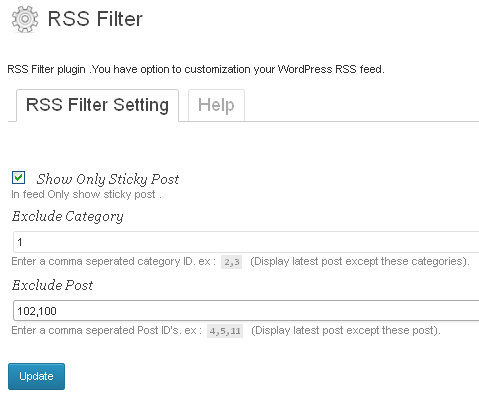
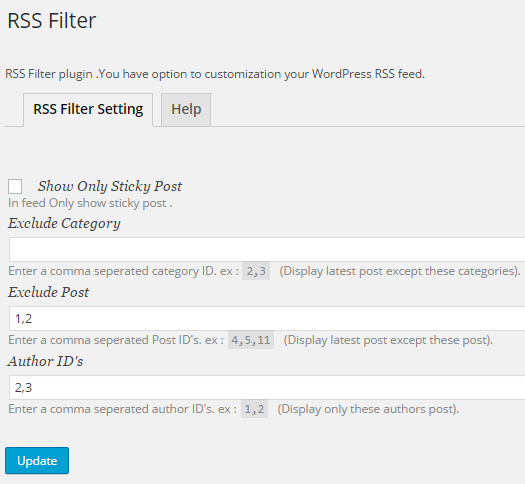
version 1.1
git-svn-id: https://plugins.svn.wordpress.org/rss-filter/trunk@1155151 b8457f37-d9ea-0310-8a92-e5e31aec5664

diff --git a/rss-filter.php b/rss-filter.php
@@ -3,7 +3,7 @@
 Plugin Name: RSS Filter 
 Plugin URI: http://wordpress.org/extend/plugins/rss-filter/
 Description: RSS Filter plugin .You have option to customization your WordPress RSS feed items.
-Version: 1.0
+Version: 1.1
 Author: Shambhu Prasad Patnaik
 Author URI:http://socialcms.wordpress.com/
 */
@@ -31,10 +31,11 @@ function rss_filter_admin_setting()
  $action = stripslashes_deep($_POST['update']); 
  if($action=='Update')
  {
-  $show_sticky = stripslashes_deep($_POST['show_sticky']); 
+  $show_sticky      = stripslashes_deep($_POST['show_sticky']); 
   $exclude_category = stripslashes_deep($_POST['exclude_category']); 
-  $exclude_post = stripslashes_deep($_POST['exclude_post']); 
-  $rss_filter_setting =array('show_sticky'=>$show_sticky,'exclude_category'=>$exclude_category,'exclude_post'=>$exclude_post);
+  $exclude_post     = stripslashes_deep($_POST['exclude_post']); 
+  $author_post      = stripslashes_deep($_POST['author_post']); 
+  $rss_filter_setting =array('show_sticky'=>$show_sticky,'exclude_category'=>$exclude_category,'exclude_post'=>$exclude_post,'author_post'=>$author_post);
   $data=json_encode($rss_filter_setting);
   update_option('rss_filter_setting',$data); 
   update_option('rss_filter_message','Successfully Updated.');
@@ -47,6 +48,7 @@ function rss_filter_admin_setting()
   $show_sticky = $setting_data['show_sticky'];
   $exclude_category = $setting_data['exclude_category'];
   $exclude_post = $setting_data['exclude_post'];
+  $author_post= $setting_data['author_post'];
  }
  if($rss_filter_message = get_option('rss_filter_message') && !isset($_POST['update']))
  {
@@ -86,7 +88,13 @@ function rss_filter_admin_setting()
 	   </tr>
 	   <tr>
 		<td><input type="text" name="exclude_post"  value="'.$exclude_post.'" id="exclude_post" class="rssFilter_setting_input"><br><span class="rssFilter_setting_desc">Enter a comma seperated Post ID\'s. ex : <code>4,5,11</code> &nbsp;&nbsp;(Display latest post except these post).</span></td>
-	   </tr>	   
+	   </tr>
+	   <tr>
+		<td class="rssFilter_setting_title">Author  ID\'s</td>
+	   </tr>
+	   <tr>
+		<td><input type="text" name="author_post"  value="'.$author_post.'" id="author_post" class="rssFilter_setting_input"><br><span class="rssFilter_setting_desc">Enter a comma seperated author  ID\'s. ex : <code>1,2</code> &nbsp;&nbsp;(Display only these authors post).</span></td>
+	   </tr>
 	  </table><p class="submit"><input type="submit" name="update"value="Update" class="button button-primary button-large"></p></form>
      </div>';
 }
@@ -123,6 +131,9 @@ function rss_filter_help()
 	    3. <b>How to Exclude Certain Post From RSS Feed?</b><br>
          <p>in Exclude Post text box enter post id (comma seperated)</p><br>
 
+	    4. <b>How to given Author Post From RSS Feed?</b><br>
+         <p>in Author  ID\'s enter author id (comma seperated)</p><br>
+
      </div>';
 }
 endif;
@@ -133,6 +144,7 @@ function myFeedExcluder($query) {
   $setting_data = (array) json_decode(get_option('rss_filter_setting'));
   $exclude_category = explode(",",$setting_data['exclude_category']);
   $exclude_post = explode(",",$setting_data['exclude_post']);
+  $author_post = explode(",",$setting_data['author_post']);  
   $show_sticky = $setting_data['show_sticky'];
 
    if(count($exclude_category)>0)
@@ -141,6 +153,8 @@ function myFeedExcluder($query) {
    $query->set('post__not_in',$exclude_post);
    if($show_sticky=='yes')
    $query->set('post__in',get_option( 'sticky_posts' ));
+   if($author_post!='')
+   $query->set('author__in',$author_post);
    //print_r($query);die();
  }
 return $query;
@@ -159,7 +173,7 @@ endif;
 if (!function_exists('rss_filter_activate')) :
 function rss_filter_activate()
 {
- $rss_filter_setting =array('show_sticky'=>'','exclude_category'=>'','exclude_post'=>'');
+ $rss_filter_setting =array('show_sticky'=>'','exclude_category'=>'','exclude_post'=>'','author_post'=>'');
  $data=json_encode($rss_filter_setting);
  update_option('rss_filter_setting',$data); 
 }

diff --git a/index.php b/index.php
@@ -2,8 +2,8 @@
 /*
 ***********************************************************
 **********#	Name	    : Shambhu Prasad Patnaik   #*******
-**********#	Company	    : Aynsoft			   #***********
-**********#	Copyright (c) www.aynsoft.com 2013 #***********
+**********#	Company	    : SocialCMS.in			***********
+**********#	Copyright (c) www.socialcms.in 2015#***********
 ***********************************************************
 */
 header('location:../');
